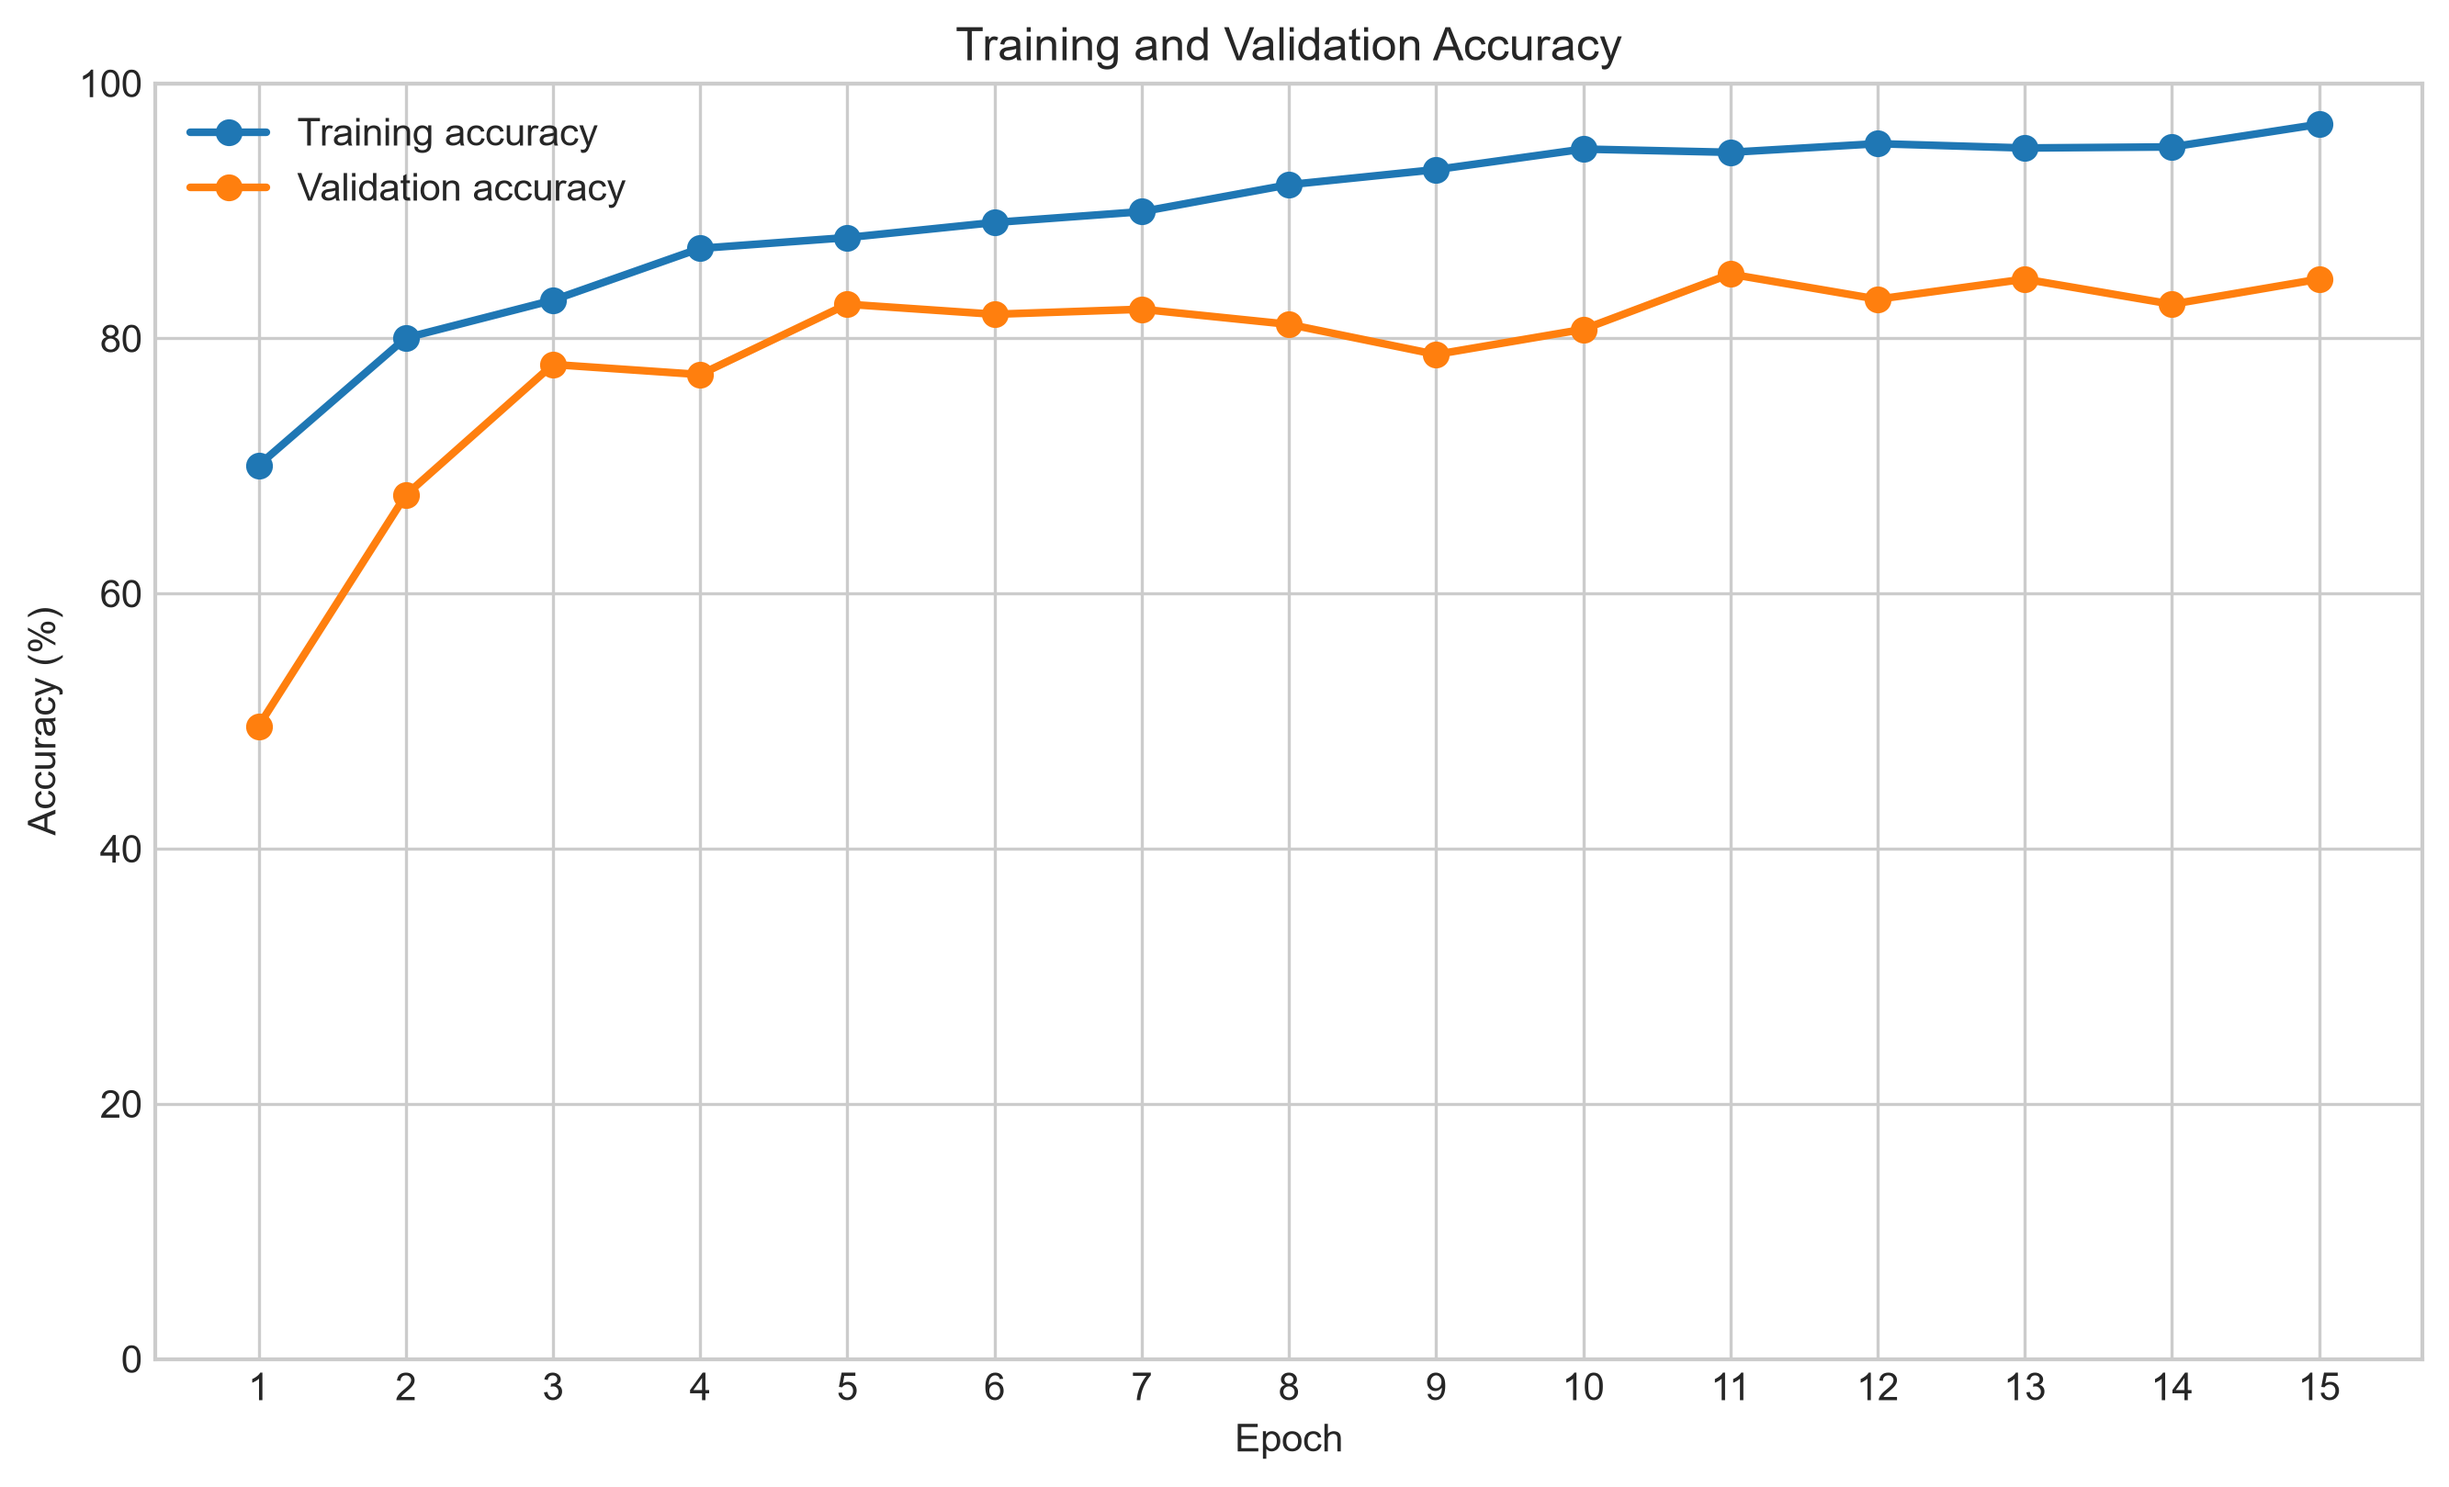
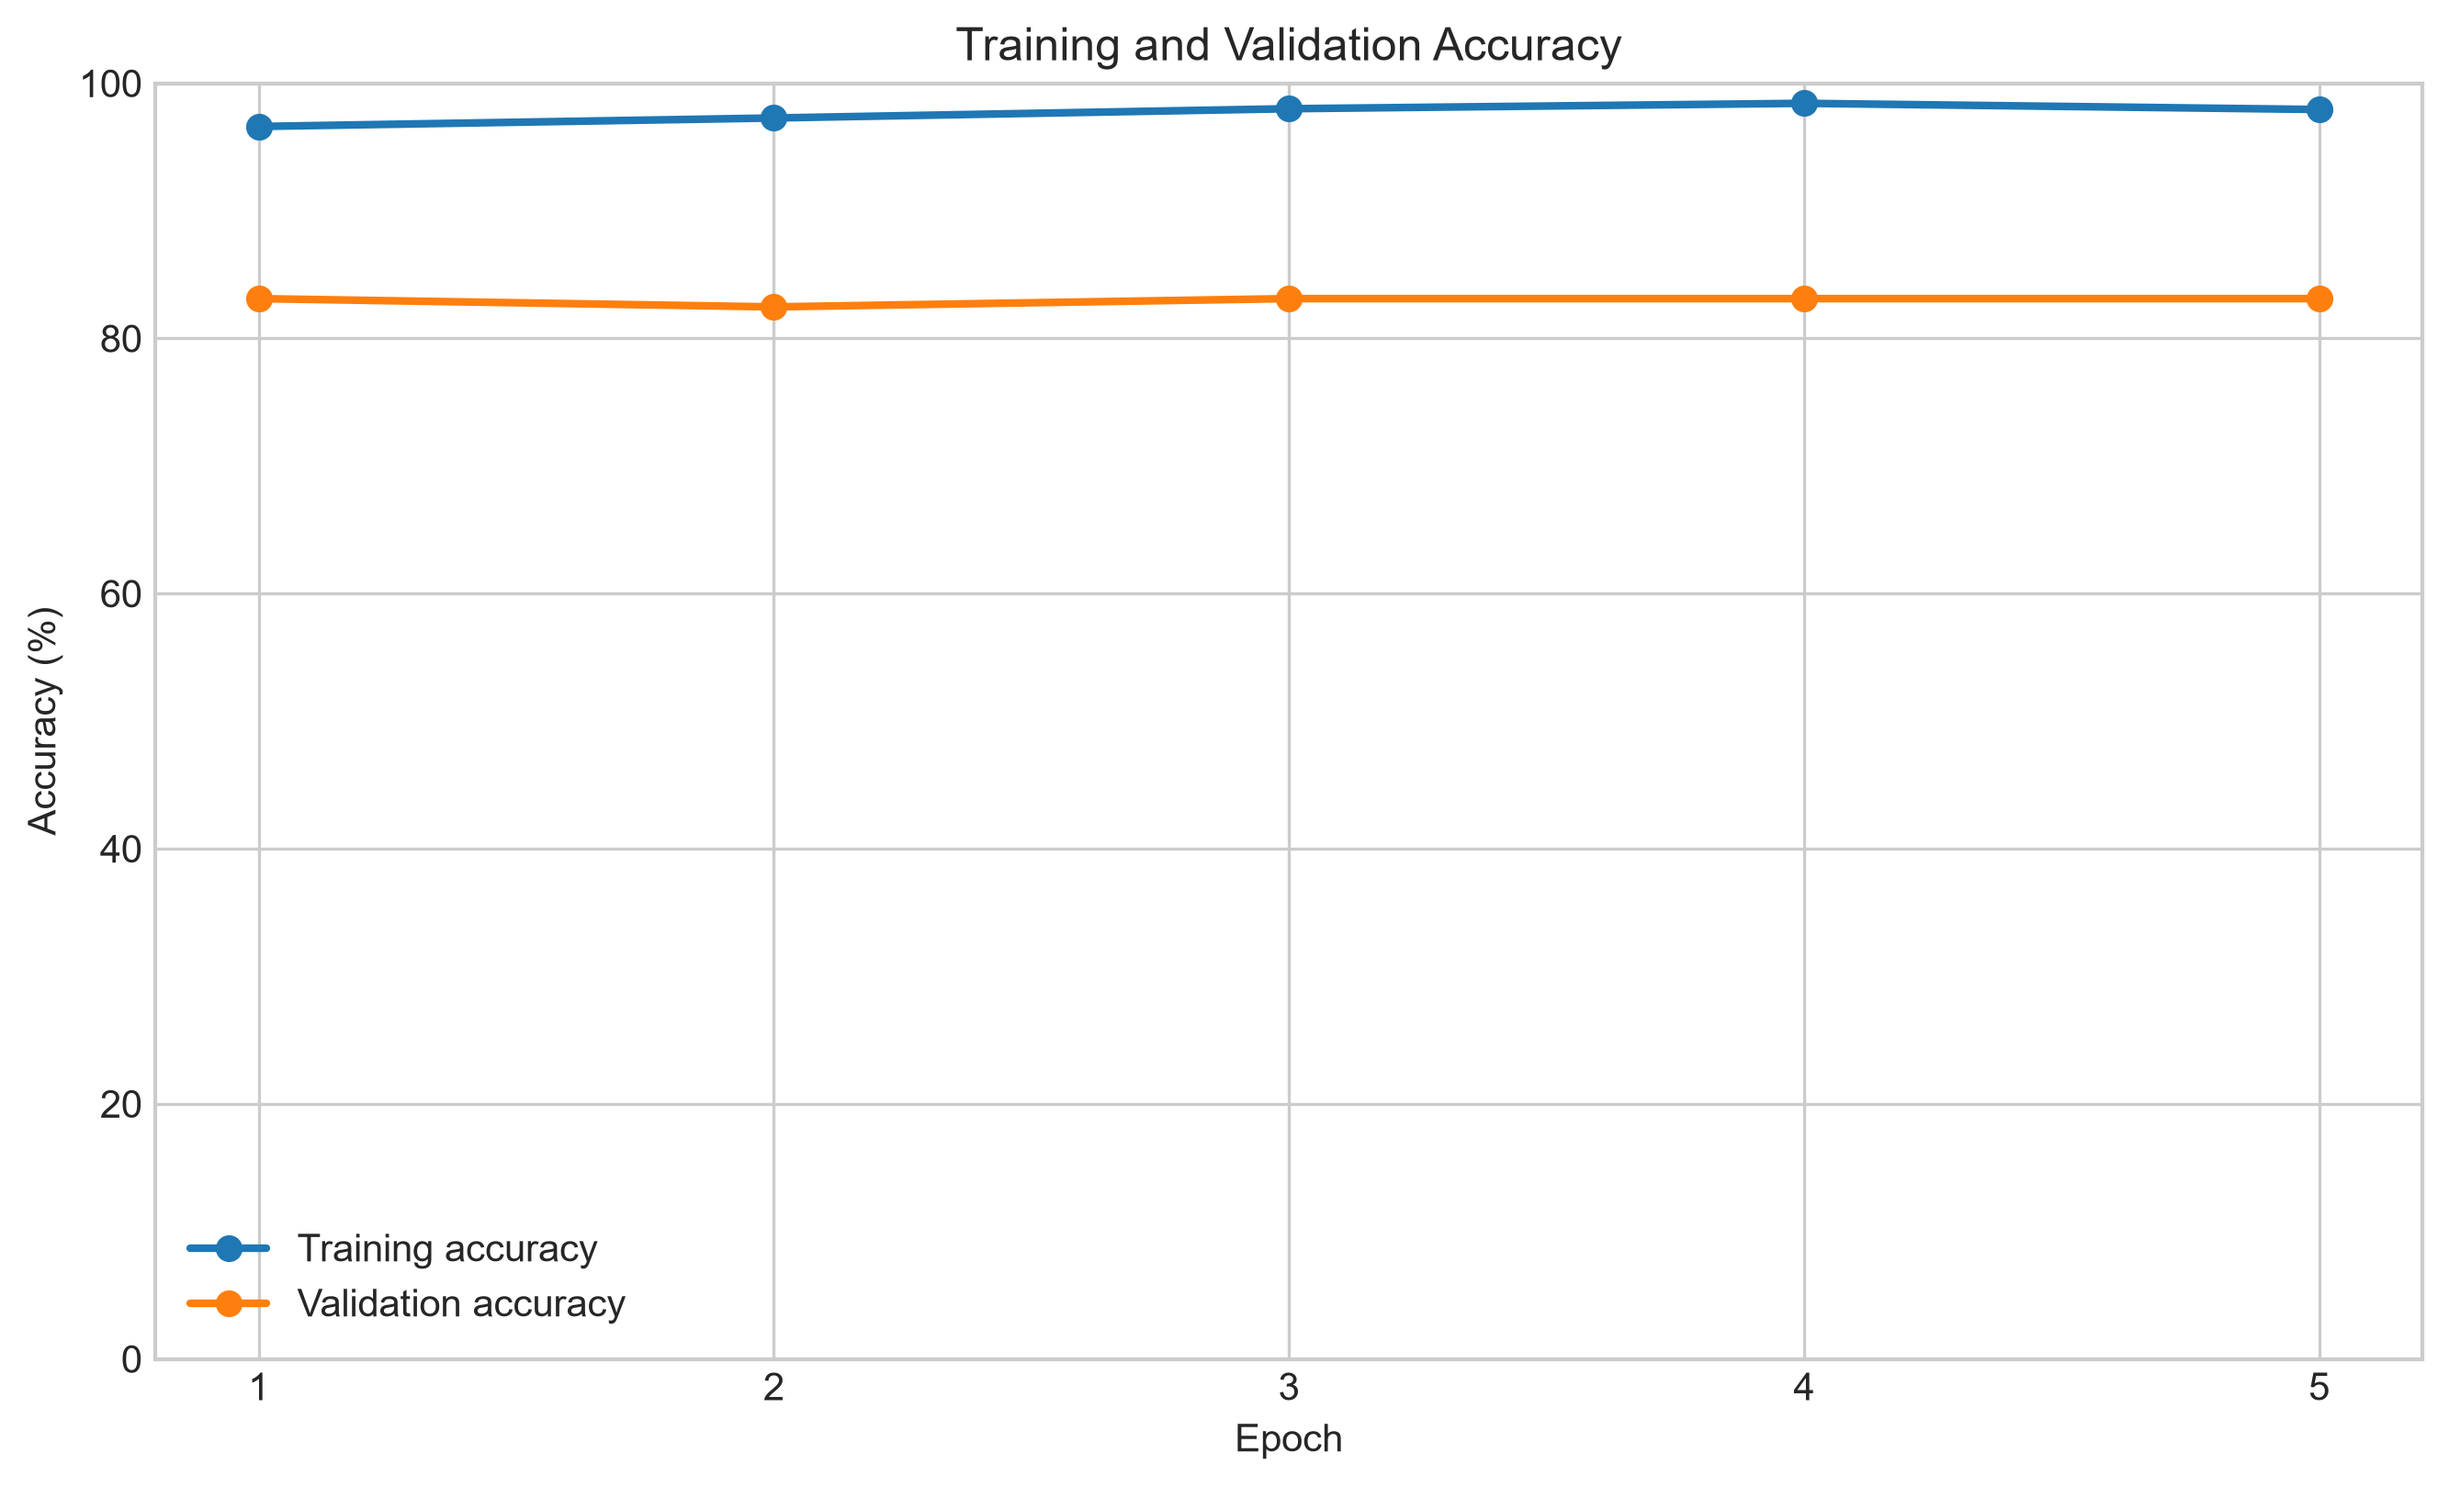
Update graphs for latest balanced dataset run

diff --git a/generate_graphs.py b/generate_graphs.py
@@ -7,7 +7,7 @@ import numpy as np
 
 
 PROJECT = Path(__file__).resolve().parent
-MODEL_DIR = PROJECT / "model_output"
+MODEL_DIR = PROJECT / "graph_data"
 OUTPUT = PROJECT / "graph_outputs"
 OUTPUT.mkdir(parents=True, exist_ok=True)
 
@@ -77,7 +77,7 @@ finish("error_loss_graph.png")
 matrix = np.array(metrics["test"]["matrix"])
 fig, axis = plt.subplots(figsize=(7, 6))
 image = axis.imshow(matrix, cmap="Blues")
-axis.set_title("MobileNetV3-Large Confusion Matrix")
+axis.set_title("Latest Balanced Model Confusion Matrix")
 axis.set_xlabel("Predicted class")
 axis.set_ylabel("Actual class")
 axis.set_xticks([0, 1], ["Fractured", "Non-fractured"])
@@ -89,6 +89,28 @@ for row in range(2):
                   fontsize=18, fontweight="bold", color=color)
 fig.colorbar(image, ax=axis)
 finish("confusion_matrix.png")
+
+
+# 4. Dataset distribution
+dataset = metrics["dataset"]
+splits = ["Training", "Validation", "Test"]
+fractured_counts = [dataset[name.lower()]["fractured"] for name in splits]
+normal_counts = [dataset[name.lower()]["non_fractured"] for name in splits]
+positions = np.arange(len(splits))
+width = 0.36
+plt.figure(figsize=(9, 5.5))
+plt.bar(positions - width / 2, fractured_counts, width, label="Fractured")
+plt.bar(positions + width / 2, normal_counts, width, label="Non-fractured")
+plt.xlabel("Dataset split")
+plt.ylabel("Number of X-rays")
+plt.title("Latest Balanced Dataset Distribution")
+plt.xticks(positions, splits)
+plt.legend()
+for position, value in zip(positions - width / 2, fractured_counts):
+    plt.text(position, value + 10, str(value), ha="center")
+for position, value in zip(positions + width / 2, normal_counts):
+    plt.text(position, value + 10, str(value), ha="center")
+finish("dataset_distribution.png")
 
 
 print(f"Graphs saved in: {OUTPUT}")
